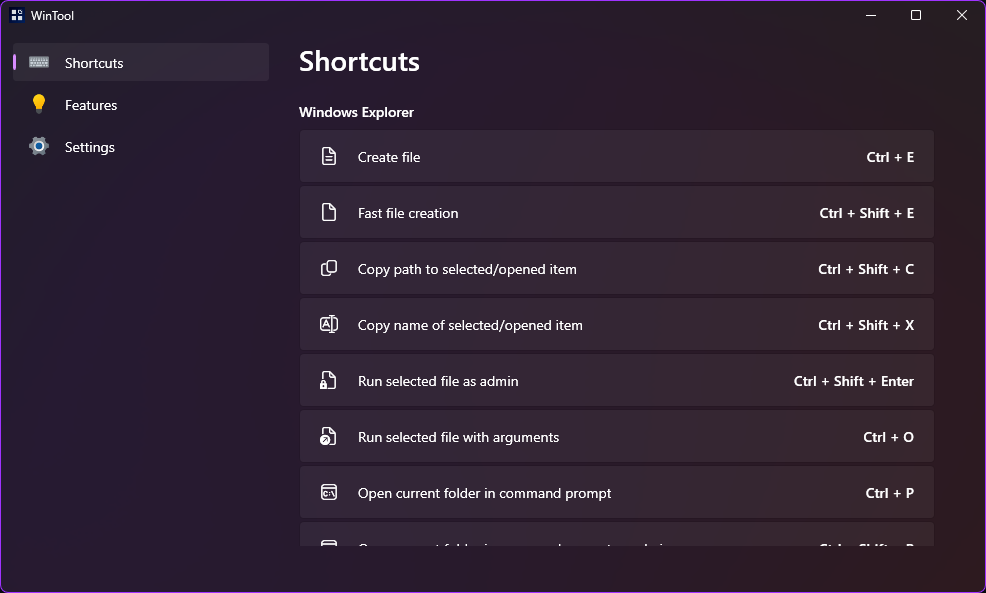
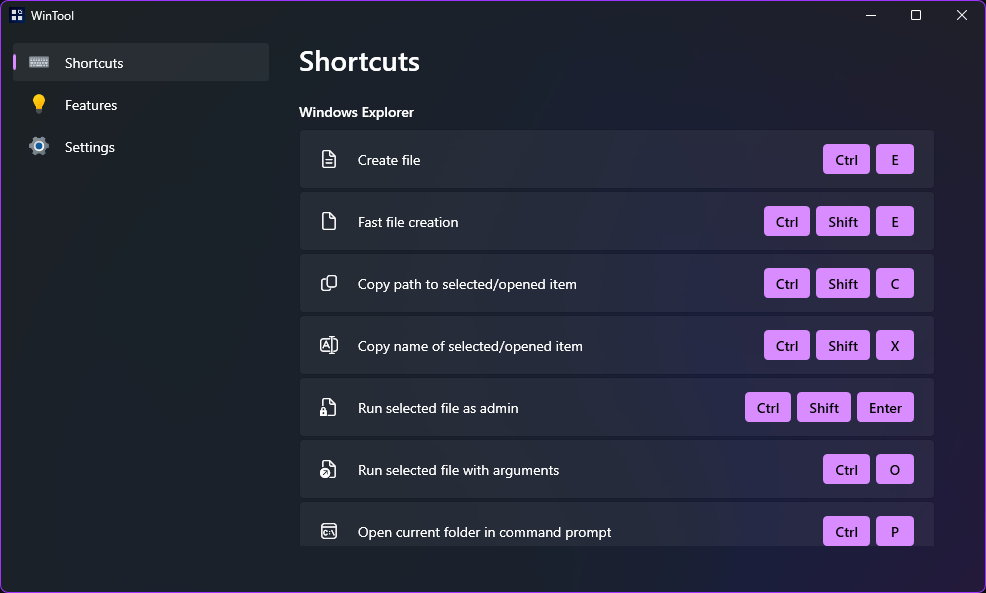
update readme and version

Changed region(s): [[0.3043, 0.2428, 1.0, 1.0], [0.3043, 0.8803, 0.6085, 0.9106], [0.3043, 0.2428, 0.426, 0.2732]]

diff --git a/CHANGELOG.md b/CHANGELOG.md
@@ -1,3 +1,10 @@
+## v0.10.0
+- Added localizations for `German`, `Spanish`, `French`, `Polish`, `Portuguese`, `Russian`, `Turkish`, and `Ukrainian`
+- Added language selection in settings
+- Improved `Features` and `Settings` tabs UI
+- Small UI improvement of `Input popup`
+- Fixed Fluent theme rendering in Windows 10
+
 ## v0.9.5
 - Added keyboard layout preview in Input popup when switching with `Win + Space` (shows the upcoming layout before releasing `Win`)
 - Added animated transition between keyboard layouts in Input popup

diff --git a/README.md b/README.md
@@ -1,7 +1,7 @@
 # WinTool
 
 ![NET](https://img.shields.io/badge/.NET%2010-%23512BD4)
-![Version](https://img.shields.io/badge/Version-0.9.5-%230c7ebf)
+![Version](https://img.shields.io/badge/Version-0.10.0-%230c7ebf)
 [![License](https://img.shields.io/github/license/arcanexhoax/WinTool.svg?color=00b542&label=License)](https://raw.githubusercontent.com/arcanexhoax/WinTool/master/LICENSE)
 
 WinTool is a utility that adds useful features and shortcuts to Windows, enhancing everyday experience.
@@ -26,7 +26,7 @@ WinTool is a utility that adds useful features and shortcuts to Windows, enhanci
 ## Features
 - Input popup: a keyboard layout switching popup near active caret in any app
 
-<img src="./docs/input-popup.png" />
+<img src="./docs/input-popup.gif" />
 
 <br>
 